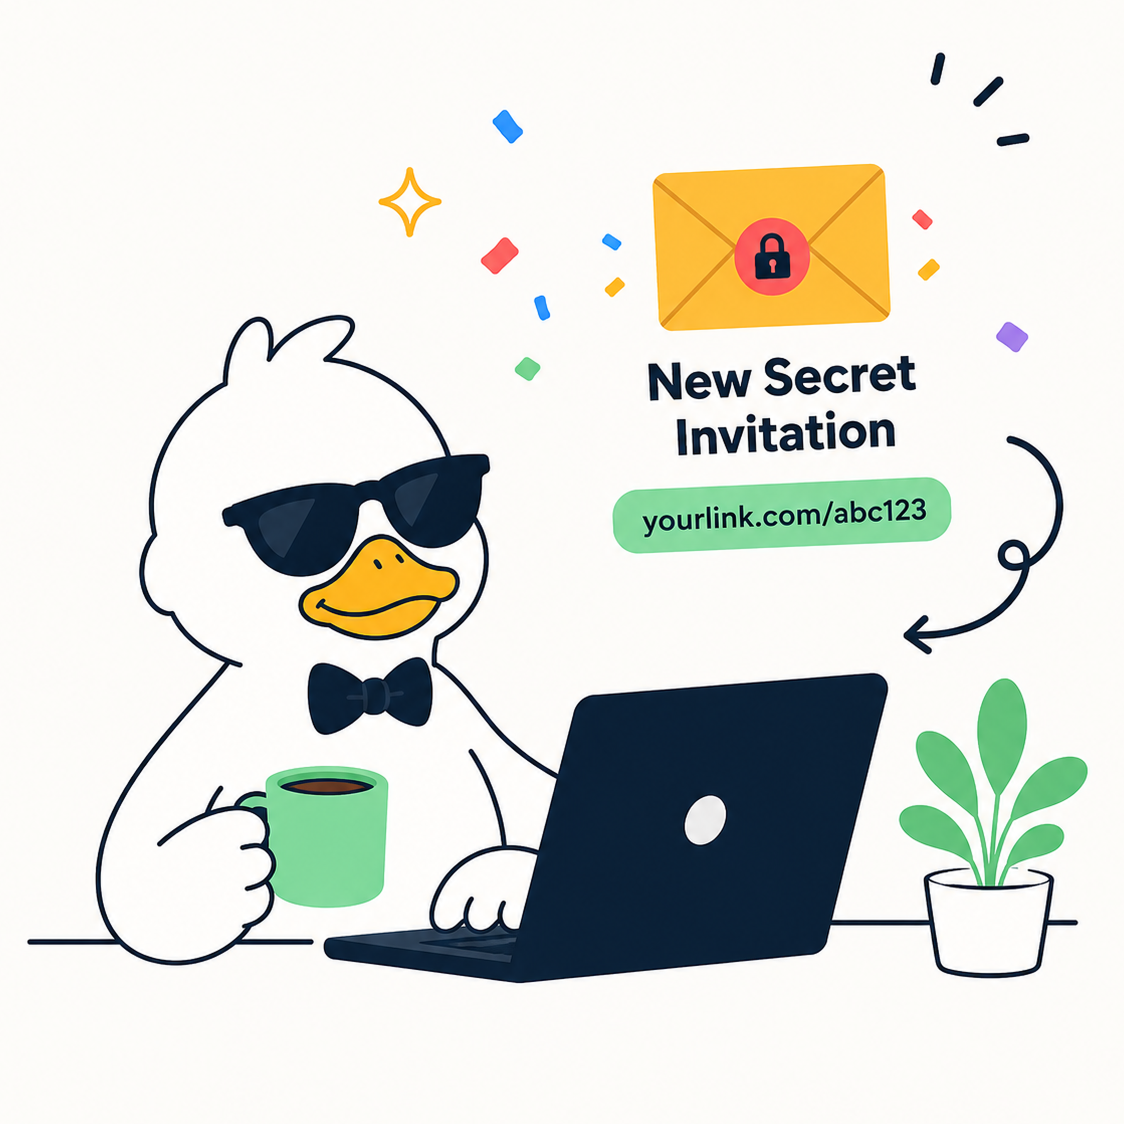
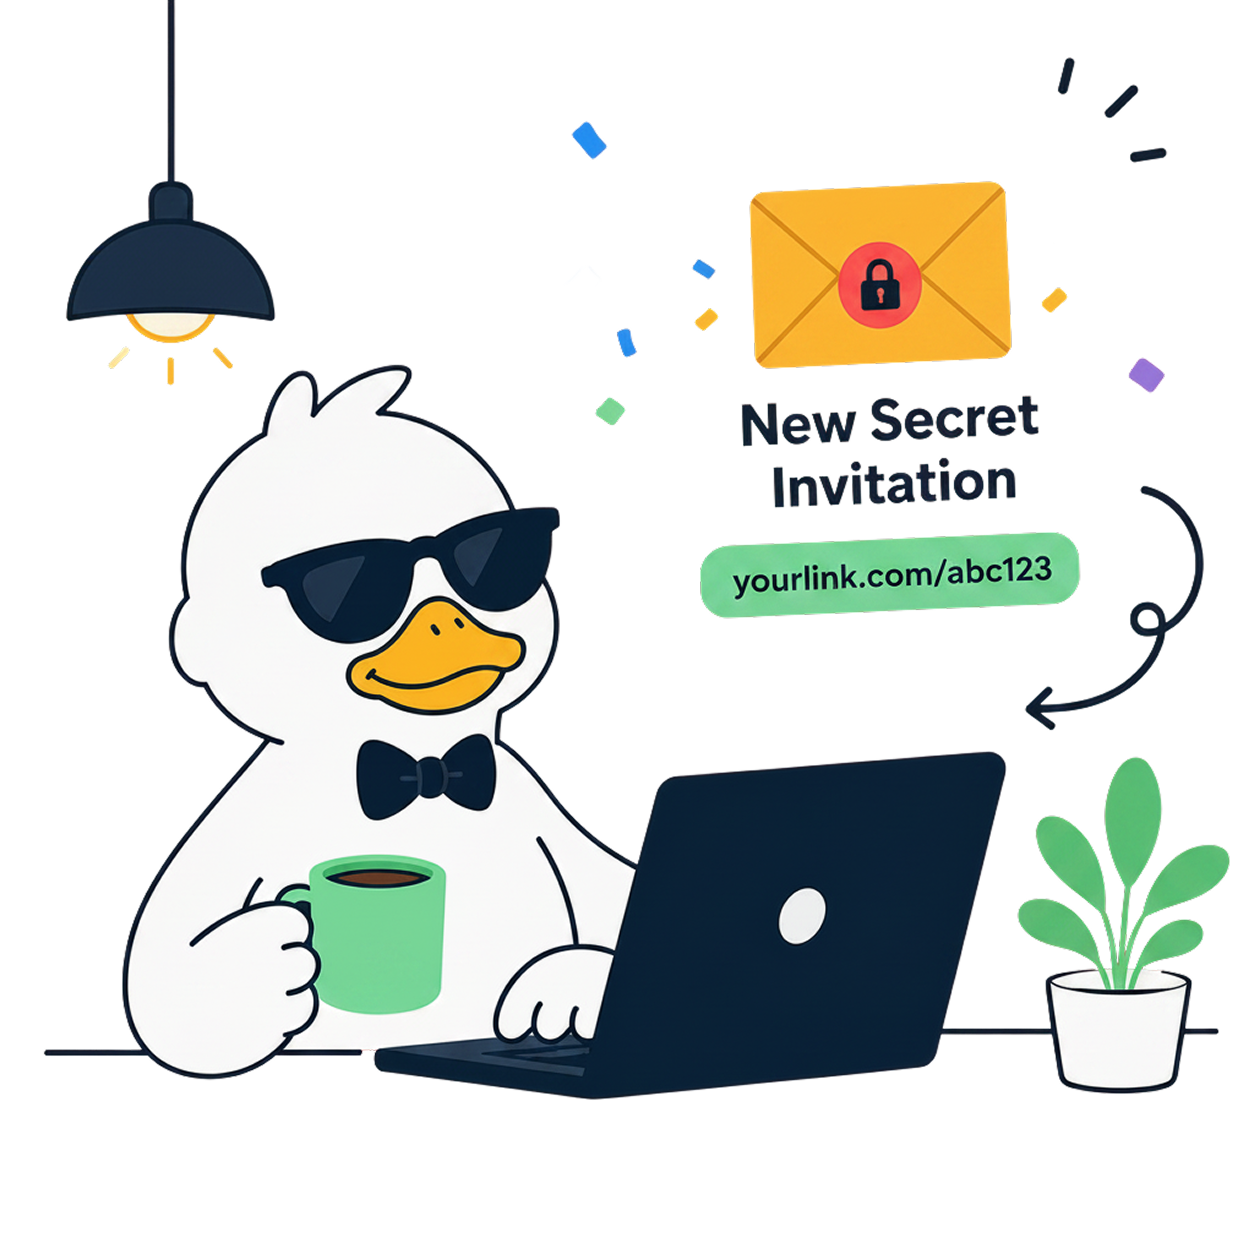
feat: improve home page

diff --git a/resources/js/pages/Welcome.vue b/resources/js/pages/Welcome.vue
@@ -72,16 +72,22 @@ const steps = [
         number: '01',
         title: 'Write & lock',
         body: 'Title, date, place — then choose the challenge that guards it.',
+        image: '/images/duck-challenge.png',
+        imageAlt: 'Duck choosing a challenge to seal an invitation',
     },
     {
         number: '02',
         title: 'Drop the link',
         body: 'secretduck.app/i/ABC123 lands in the group chat. Curiosity does the rest.',
+        image: '/images/duck-link.png',
+        imageAlt: 'Duck sharing a sealed invitation link',
     },
     {
         number: '03',
         title: 'Watch it open',
         body: 'Every solve pings your host view — RSVPs arrive already warmed up.',
+        image: '/images/duck-watch.png',
+        imageAlt: 'Duck watching guests solve and open invitations',
     },
 ];
 
@@ -406,7 +412,7 @@ const features = [
 
         <section
             id="how"
-            class="scroll-mt-6 bg-[#0b0a11] px-5 py-12 text-[#f7f8fa] lg:px-11"
+            class="scroll-mt-6 bg-[#0b0a11] px-5 py-16 text-[#f7f8fa] lg:px-11"
         >
             <div class="mx-auto max-w-[1240px]">
                 <div
@@ -426,17 +432,28 @@ const features = [
                     <div
                         v-for="step in steps"
                         :key="step.number"
-                        class="rounded-lg bg-[#1e1b29] p-6"
+                        class="overflow-hidden p-8 rounded-lg border-2 border-[rgba(247,248,250,0.08)] transition hover:border-[rgba(247,248,250,0.16)]"
                     >
-                        <p class="mb-3 font-mono text-[13px] text-gold">
-                            {{ step.number }}
-                        </p>
-                        <h3 class="type-heading-sm mb-1.5">{{ step.title }}</h3>
-                        <p
-                            class="text-sm leading-[1.6] text-[rgba(247,248,250,0.64)]"
-                        >
-                            {{ step.body }}
-                        </p>
+                        <img
+                            :src="step.image"
+                            :alt="step.imageAlt"
+                            loading="lazy"
+                            decoding="async"
+                            class="block aspect-3/2 w-full object-cover"
+                        />
+                        <div>
+                            <p class="mb-3 font-mono text-[13px] text-gold">
+                                {{ step.number }}
+                            </p>
+                            <h3 class="type-heading-sm mb-1.5">
+                                {{ step.title }}
+                            </h3>
+                            <p
+                                class="text-sm leading-[1.6] text-[rgba(247,248,250,0.64)]"
+                            >
+                                {{ step.body }}
+                            </p>
+                        </div>
                     </div>
                 </div>
             </div>
@@ -448,7 +465,7 @@ const features = [
                 class="grid scroll-mt-6 items-center gap-12 px-5 py-16 lg:grid-cols-2 lg:px-11"
             >
                 <div
-                    class="rounded-2xl bg-white px-6 py-10 shadow-card-light sm:px-9"
+                    class="rounded-2xl"
                 >
                     <div
                         v-if="!solved"
@@ -539,7 +556,7 @@ const features = [
                         <span
                             v-for="type in challengeTypes"
                             :key="type.label"
-                            class="rounded-full px-5 py-3 text-[15px] font-bold"
+                            class="rounded-md px-5 py-3 text-[15px] font-bold"
                             :class="type.class"
                             >{{ type.label }}</span
                         >

diff --git a/tests/Browser/QuestInviteFlowTest.php b/tests/Browser/QuestInviteFlowTest.php
@@ -16,6 +16,16 @@ test('landing page is responsive accessible and free of JavaScript errors', func
         ->assertNoAccessibilityIssues();
 });
 
+test('landing page how it works section uses the corresponding illustrations', function () {
+    visit('/')
+        ->resize(390, 844)
+        ->assertSee('Host seals. Guest solves. Party happens.')
+        ->assertVisible('img[src="/images/duck-challenge.png"]')
+        ->assertVisible('img[src="/images/duck-link.png"]')
+        ->assertVisible('img[src="/images/duck-watch.png"]')
+        ->assertNoJavaScriptErrors();
+});
+
 test('public pages keep the default design tokens', function () {
     visit('/')
         ->assertNotPresent('[data-admin-area]')